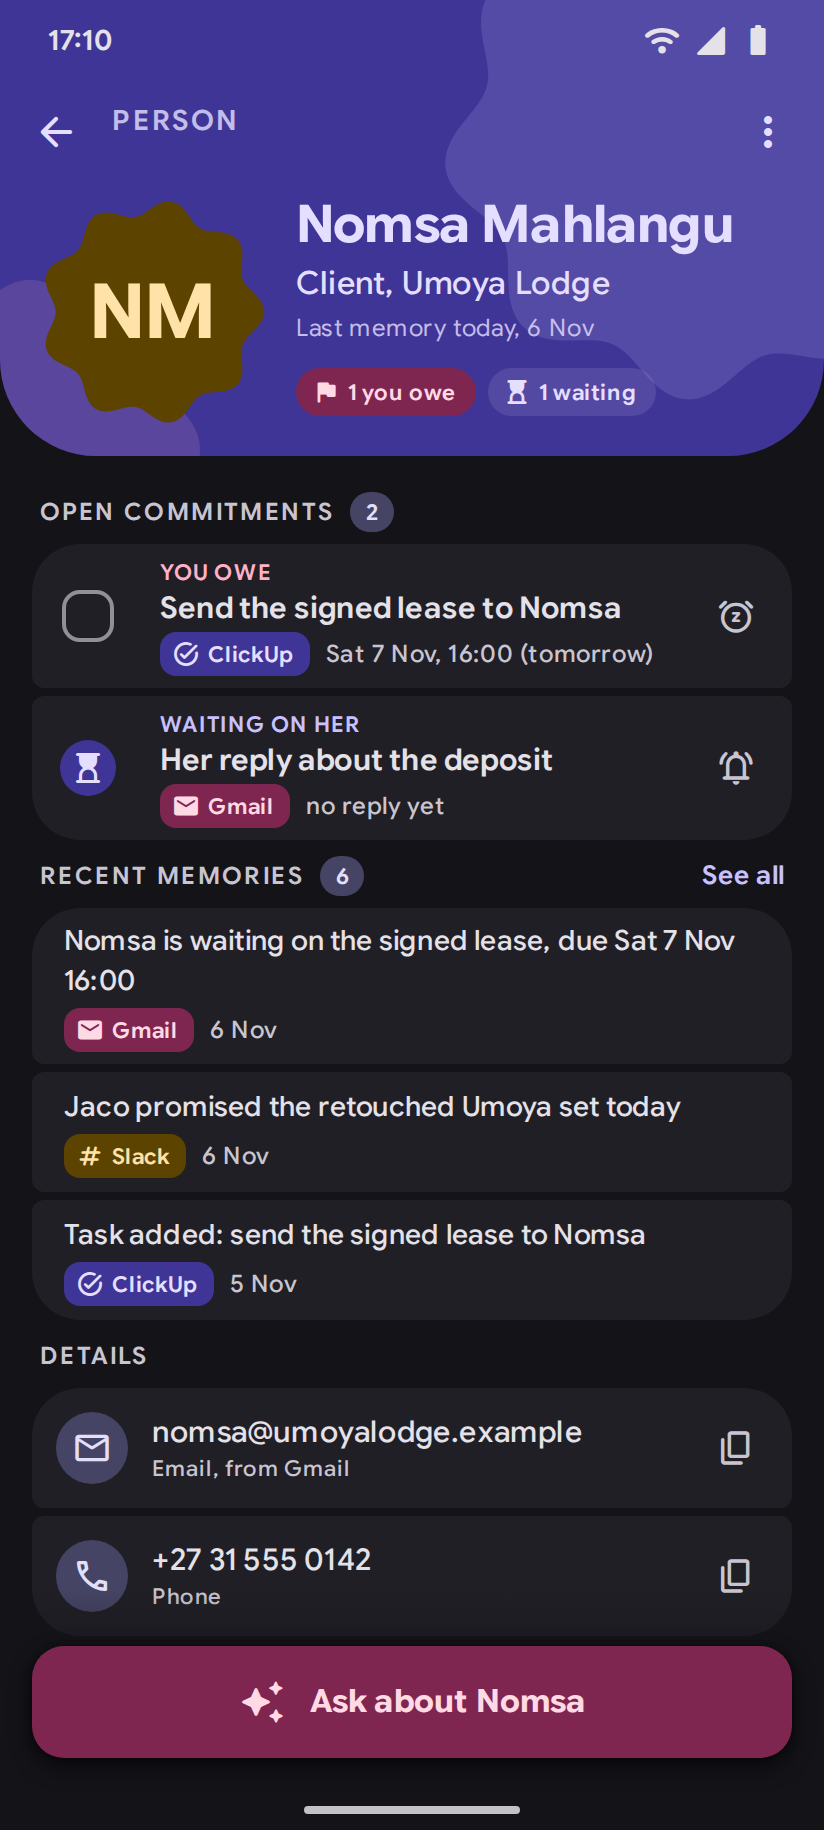
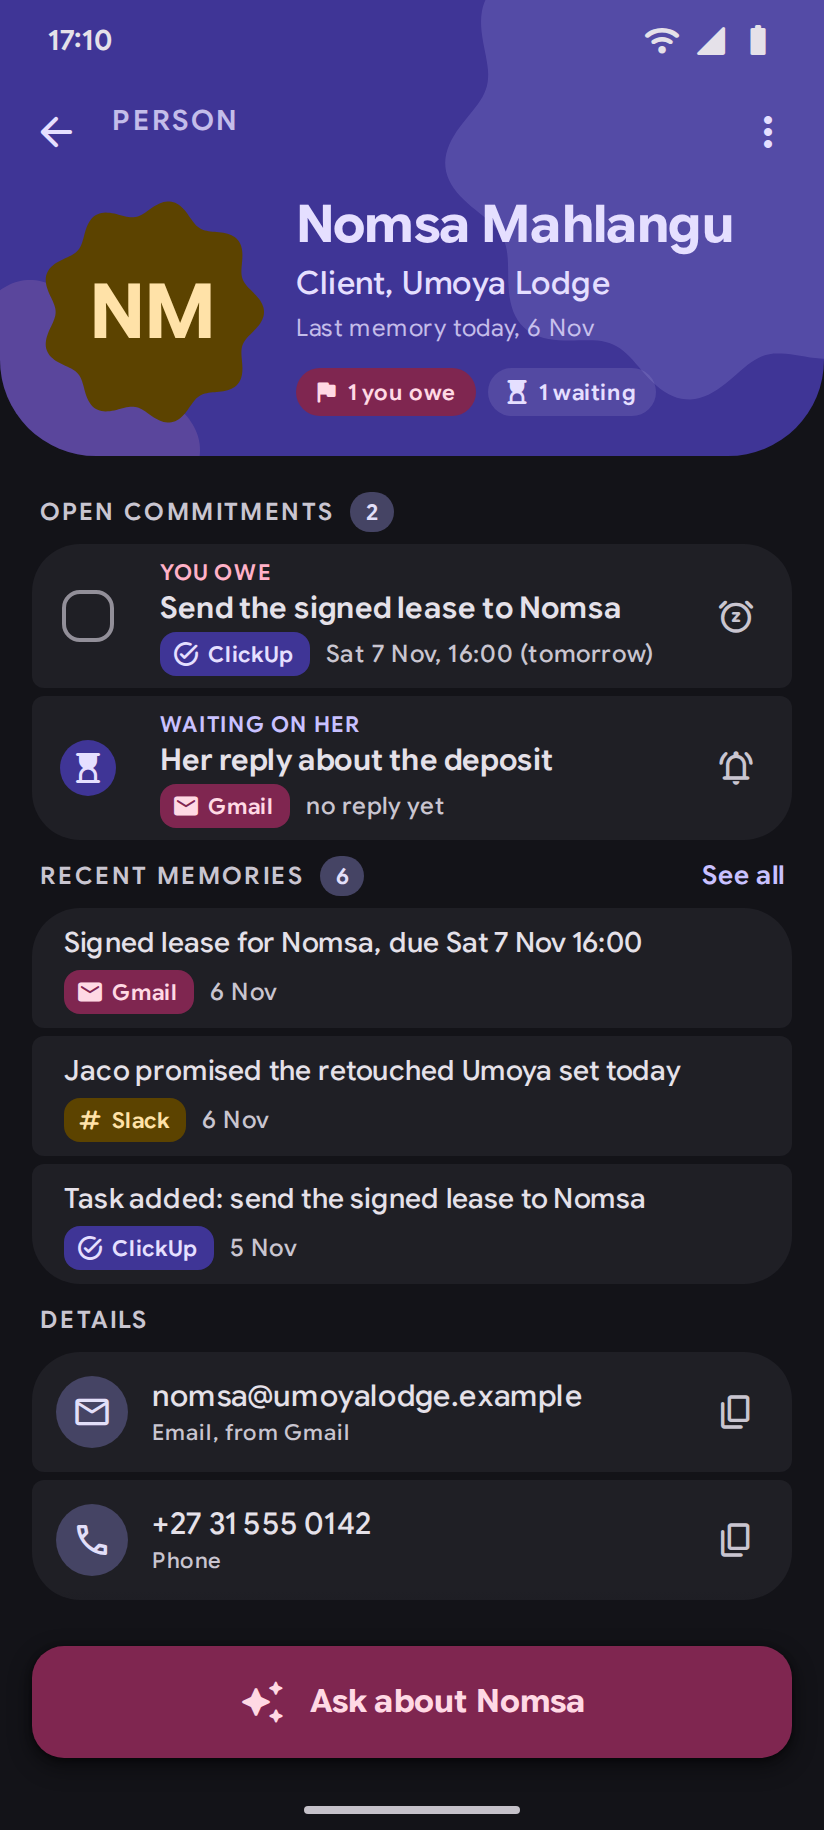
Mocks 06 to 10 (daily report, people, person, nudge, chat answer): v4

Changed region(s): [[0.0303, 0.4984, 0.8799, 0.9033], [0.182, 0.7475, 0.6978, 0.9033], [0.8495, 0.7475, 0.9102, 0.8721]]

diff --git a/design/life-agent-mocks/06-daily-report-dark.html b/design/life-agent-mocks/06-daily-report-dark.html
@@ -5,21 +5,21 @@ const SRC = { gmail: ['mail', '--tertiary-container', '--on-tertiary-container',
 const sc = k => { const [i, bg, fg, l] = SRC[k]; return `<span class="src" style="background:var(${bg});color:var(${fg})">${ic(i)}${l}</span>`; };
 const mountB = (html, time) => { mount(html); document.querySelector('.status span').textContent = time; };
 
-const sec = (l, c) => `<div class="sec" style="height:24px"><span class="l">${l}${c !== undefined ? `<span class="c">${c}</span>` : ''}</span></div>`;
+const sec = (l, c) => `<div class="sec" style="height:22px"><span class="l">${l}${c !== undefined ? `<span class="c">${c}</span>` : ''}</span></div>`;
 /* aware: a shaped kind icon instead of a tick, the whole row opens the source */
 const aware = (icon, tn, shape, t, src, when) => `<div class="row" style="min-height:50px"><div class="shi" style="width:36px;height:36px;${tone(tn)}${clip(shape)}">${ic(icon, 'f s20')}</div><div class="txt"><div class="ttl" style="font-size:14px">${t}</div><div class="meta" style="margin-top:1px">${sc(src)}<span class="t">${when}</span></div></div><div class="ib" style="width:40px">${ic('arrow_outward', 's20')}</div></div>`;
 const task = (t, src, when, o = {}) => `<div class="row ${o.late ? 'late' : ''}" style="min-height:50px"><div class="tickw"><div class="tick ${o.late ? 'late' : ''}"></div></div><div class="txt"><div class="ttl" style="font-size:14px">${t}</div><div class="meta" style="margin-top:1px">${sc(src)}<span class="t ${o.late ? 'late' : ''}">${when}</span></div></div><div class="ib" style="width:44px">${ic('snooze', 's20')}</div></div>`;
-const oc = (t, i) => `<span class="chip" style="height:30px;padding:0 12px 0 10px;font-size:13px;gap:6px">${ic(i || 'radio_button_unchecked')}${t}</span>`;
+const oc = t => `<span class="chip" style="height:30px;padding:0 12px;font-size:13px">${t}</span>`;
 
 mountB(`
-${blobHeader({ eyebrow: 'FRIDAY 6 NOVEMBER', title: '<span style="font:700 36px/42px var(--font);letter-spacing:-.8px">Daily report</span>', back: 1, h: 148, icon1: 'history', icon2: 'tune' })}
-<div class="abs" style="top:112px;left:16px;right:16px;display:flex;gap:6px;color:var(--on-primary-container)">
+${blobHeader({ eyebrow: 'FRIDAY 6 NOVEMBER', title: '<span style="font:700 36px/42px var(--font);letter-spacing:-.8px">Daily report</span>', back: 1, h: 150, icon1: 'history', icon2: 'tune' })}
+<div class="abs" style="top:114px;left:16px;right:16px;display:flex;gap:6px;color:var(--on-primary-container)">
   <span class="pill" style="background:color-mix(in srgb,var(--on-primary-container) 12%,transparent)">${ic('sync')}Collected 17:04</span>
   <span class="pill" style="background:color-mix(in srgb,var(--on-primary-container) 12%,transparent)">3 due today</span>
   <span class="pill err">1 overdue</span>
 </div>
 
-<div class="abs" style="top:154px;left:0;right:0">
+<div class="abs" style="top:156px;left:0;right:0">
   ${sec('TO BE AWARE OF', 4)}
   <div class="grp" style="gap:2px">
     ${aware('schedule', 't', 'cookie9', 'Nomsa\'s lease is due tomorrow', 'gmail', 'Sat 7 Nov, 16:00')}

diff --git a/design/life-agent-mocks/06-daily-report-light.html b/design/life-agent-mocks/06-daily-report-light.html
@@ -5,21 +5,21 @@ const SRC = { gmail: ['mail', '--tertiary-container', '--on-tertiary-container',
 const sc = k => { const [i, bg, fg, l] = SRC[k]; return `<span class="src" style="background:var(${bg});color:var(${fg})">${ic(i)}${l}</span>`; };
 const mountB = (html, time) => { mount(html); document.querySelector('.status span').textContent = time; };
 
-const sec = (l, c) => `<div class="sec" style="height:24px"><span class="l">${l}${c !== undefined ? `<span class="c">${c}</span>` : ''}</span></div>`;
+const sec = (l, c) => `<div class="sec" style="height:22px"><span class="l">${l}${c !== undefined ? `<span class="c">${c}</span>` : ''}</span></div>`;
 /* aware: a shaped kind icon instead of a tick, the whole row opens the source */
 const aware = (icon, tn, shape, t, src, when) => `<div class="row" style="min-height:50px"><div class="shi" style="width:36px;height:36px;${tone(tn)}${clip(shape)}">${ic(icon, 'f s20')}</div><div class="txt"><div class="ttl" style="font-size:14px">${t}</div><div class="meta" style="margin-top:1px">${sc(src)}<span class="t">${when}</span></div></div><div class="ib" style="width:40px">${ic('arrow_outward', 's20')}</div></div>`;
 const task = (t, src, when, o = {}) => `<div class="row ${o.late ? 'late' : ''}" style="min-height:50px"><div class="tickw"><div class="tick ${o.late ? 'late' : ''}"></div></div><div class="txt"><div class="ttl" style="font-size:14px">${t}</div><div class="meta" style="margin-top:1px">${sc(src)}<span class="t ${o.late ? 'late' : ''}">${when}</span></div></div><div class="ib" style="width:44px">${ic('snooze', 's20')}</div></div>`;
-const oc = (t, i) => `<span class="chip" style="height:30px;padding:0 12px 0 10px;font-size:13px;gap:6px">${ic(i || 'radio_button_unchecked')}${t}</span>`;
+const oc = t => `<span class="chip" style="height:30px;padding:0 12px;font-size:13px">${t}</span>`;
 
 mountB(`
-${blobHeader({ eyebrow: 'FRIDAY 6 NOVEMBER', title: '<span style="font:700 36px/42px var(--font);letter-spacing:-.8px">Daily report</span>', back: 1, h: 148, icon1: 'history', icon2: 'tune' })}
-<div class="abs" style="top:112px;left:16px;right:16px;display:flex;gap:6px;color:var(--on-primary-container)">
+${blobHeader({ eyebrow: 'FRIDAY 6 NOVEMBER', title: '<span style="font:700 36px/42px var(--font);letter-spacing:-.8px">Daily report</span>', back: 1, h: 150, icon1: 'history', icon2: 'tune' })}
+<div class="abs" style="top:114px;left:16px;right:16px;display:flex;gap:6px;color:var(--on-primary-container)">
   <span class="pill" style="background:color-mix(in srgb,var(--on-primary-container) 12%,transparent)">${ic('sync')}Collected 17:04</span>
   <span class="pill" style="background:color-mix(in srgb,var(--on-primary-container) 12%,transparent)">3 due today</span>
   <span class="pill err">1 overdue</span>
 </div>
 
-<div class="abs" style="top:154px;left:0;right:0">
+<div class="abs" style="top:156px;left:0;right:0">
   ${sec('TO BE AWARE OF', 4)}
   <div class="grp" style="gap:2px">
     ${aware('schedule', 't', 'cookie9', 'Nomsa\'s lease is due tomorrow', 'gmail', 'Sat 7 Nov, 16:00')}

diff --git a/design/life-agent-mocks/08-person-dark.html b/design/life-agent-mocks/08-person-dark.html
@@ -30,7 +30,7 @@ ${blobHeader({ eyebrow: '', title: '', back: 1, h: 228, nobtn: 1 })}
   <div style="height:2px"></div>
   ${sec('RECENT MEMORIES', 6, 'See all')}
   <div class="grp">
-    ${mem('gmail', 'Nomsa is waiting on the signed lease, due Sat 7 Nov 16:00', '6 Nov')}
+    ${mem('gmail', 'Signed lease for Nomsa, due Sat 7 Nov 16:00', '6 Nov')}
     ${mem('slack', 'Jaco promised the retouched Umoya set today', '6 Nov')}
     ${mem('clickup', 'Task added: send the signed lease to Nomsa', '5 Nov')}
   </div>

diff --git a/design/life-agent-mocks/08-person-light.html b/design/life-agent-mocks/08-person-light.html
@@ -30,7 +30,7 @@ ${blobHeader({ eyebrow: '', title: '', back: 1, h: 228, nobtn: 1 })}
   <div style="height:2px"></div>
   ${sec('RECENT MEMORIES', 6, 'See all')}
   <div class="grp">
-    ${mem('gmail', 'Nomsa is waiting on the signed lease, due Sat 7 Nov 16:00', '6 Nov')}
+    ${mem('gmail', 'Signed lease for Nomsa, due Sat 7 Nov 16:00', '6 Nov')}
     ${mem('slack', 'Jaco promised the retouched Umoya set today', '6 Nov')}
     ${mem('clickup', 'Task added: send the signed lease to Nomsa', '5 Nov')}
   </div>
